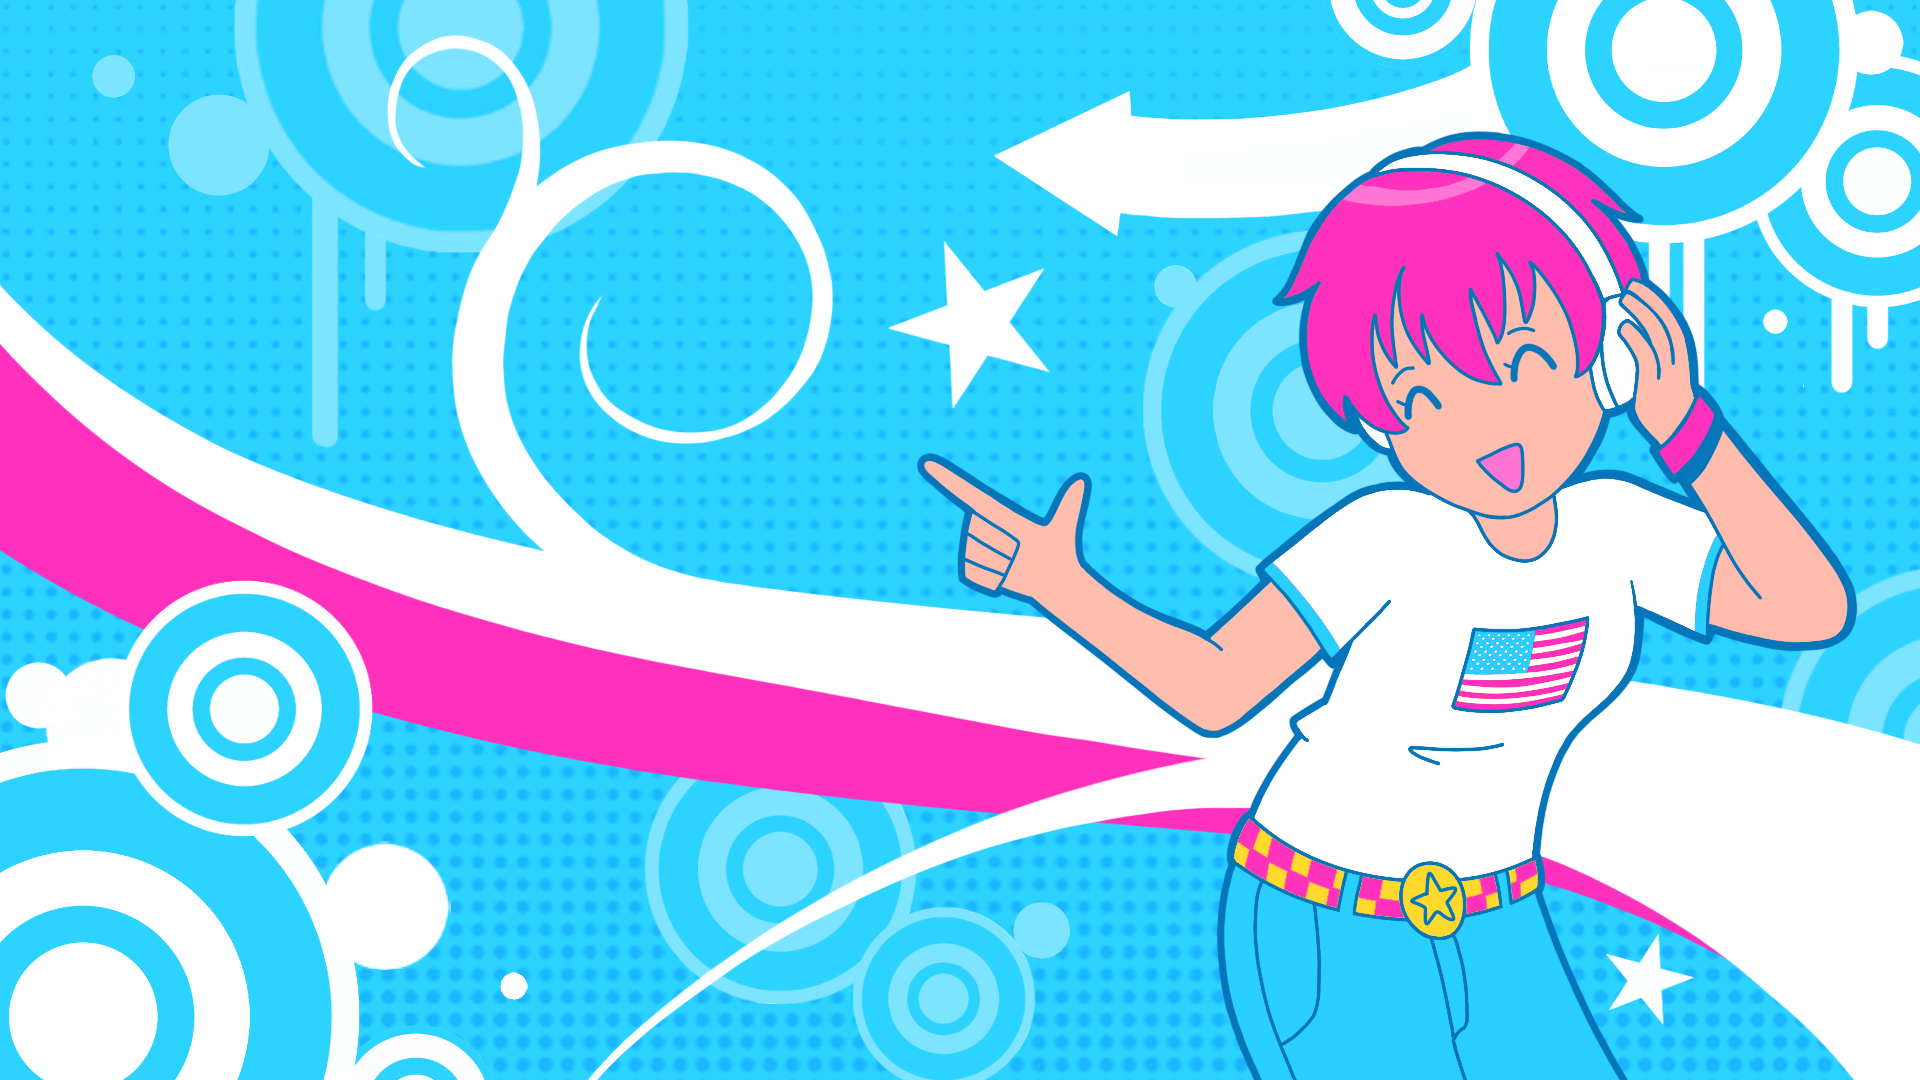
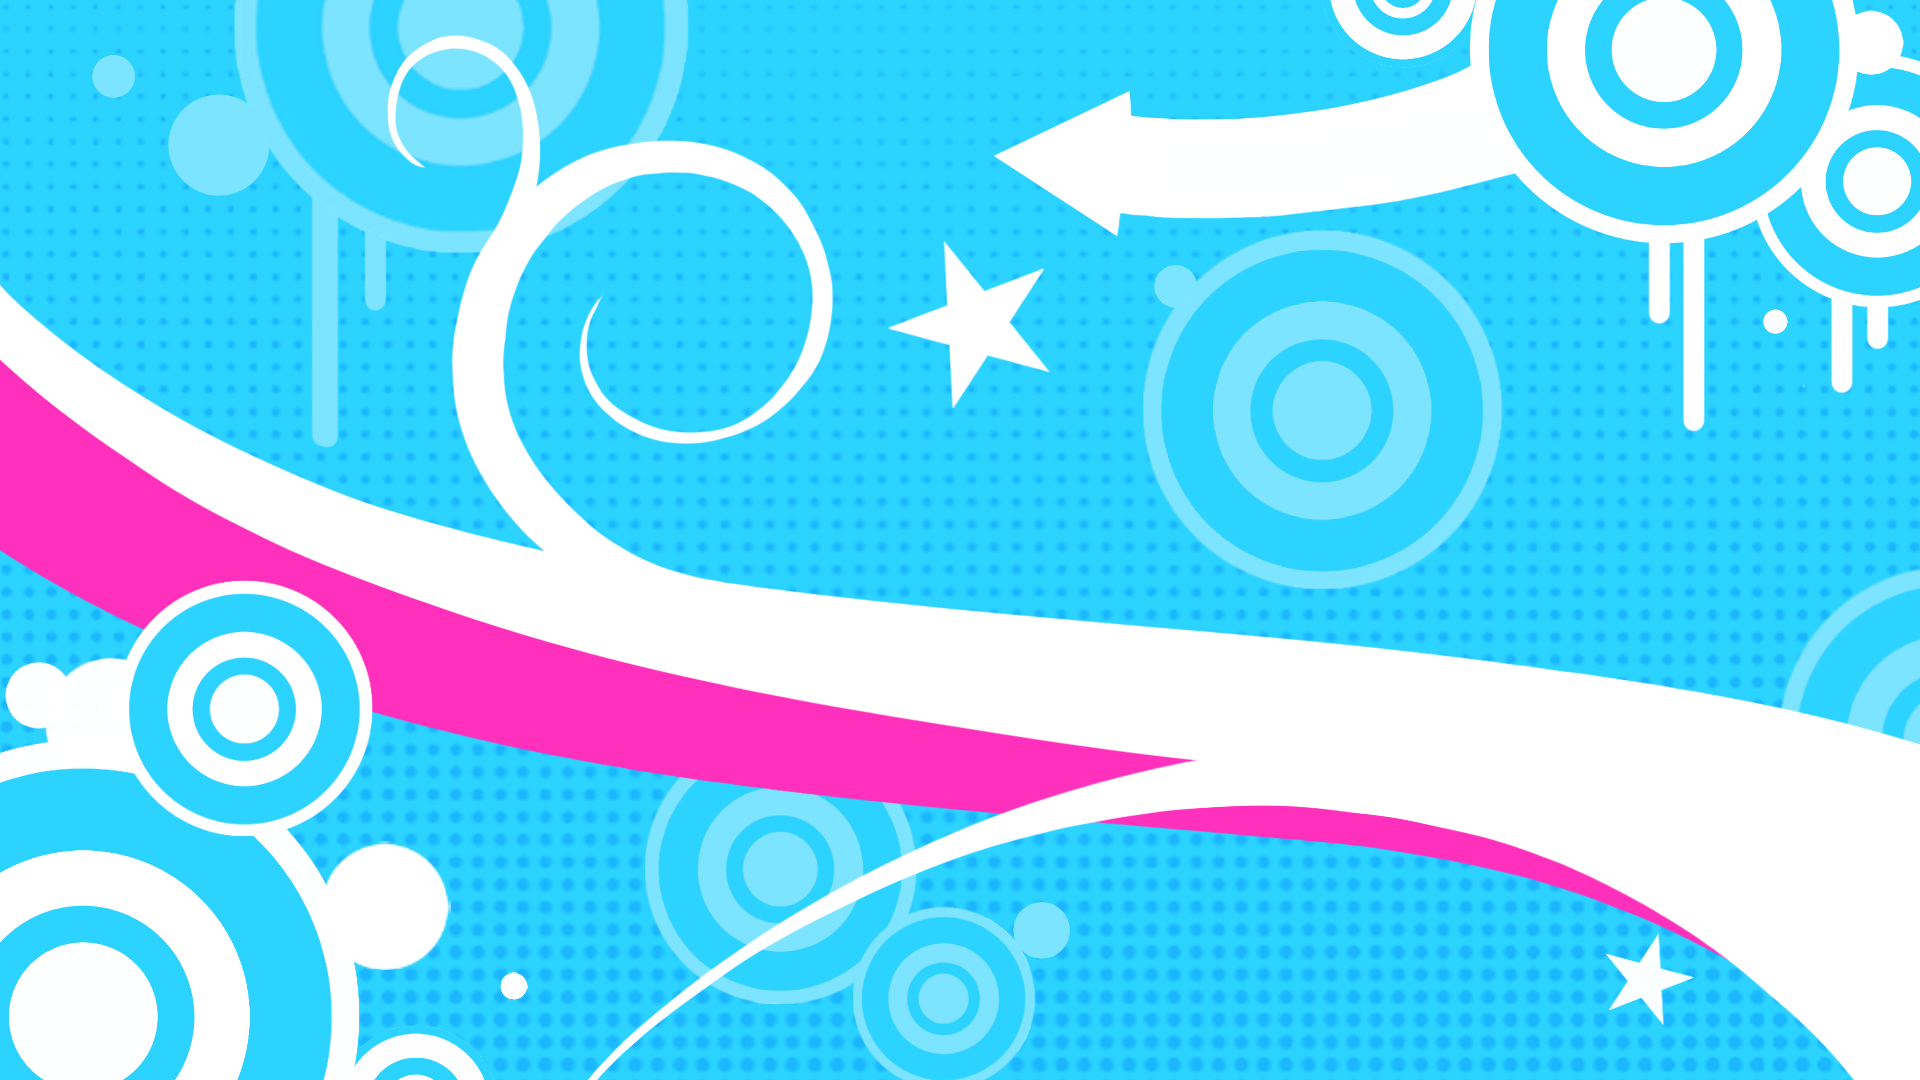
update

diff --git a/about.html b/about.html
@@ -51,7 +51,7 @@
         Led new trainee cohorts each term through a term-long training program, guiding groups in planning and developing web projects while building collaborative software development skills.
       </p>
       <p class="about-sec">
-        In my free time, I am a digital artist specialising in character illustrations, 2D animations, and video editing. I create artwork for personal projects and client commissions.
+        I am also a freelance digital artist specialising in character illustrations, 2D animations, and video editing. I create artwork for personal projects and client commissions.
       </p>
       <p class="about-sec">
         If you’d like to discuss a project or collaboration, feel free to 

diff --git a/gallery/movingimage.html b/gallery/movingimage.html
@@ -32,6 +32,10 @@
         <h2>Gallery</h2>
         <div class="project-images">
           <figure> 
+            <img src="../images/char_anim.gif" alt="Two characters hair blowing in wind"> 
+            <figcaption>Character Animation (2026)</figcaption> 
+          </figure> 
+          <figure> 
             <img src="../images/log in.gif" alt="Character signing in onto webpage"> 
             <figcaption>POV Computer Interaction Scene (2026)</figcaption> 
           </figure> 

diff --git a/gallery/illustration.html b/gallery/illustration.html
@@ -33,7 +33,7 @@
         <div class="project-images">
           <figure>
             <img src="../images/fm.png" alt="Frutiger metro styled wallpaper">
-            <figcaption>Frutiger Metro Character Illustration (2024)</figcaption> 
+            <figcaption>Frutiger Metro  Illustration (2026)</figcaption> 
           </figure> 
           <figure>
             <img src="../images/illust.png" alt="Digital illustration of a starry night garden">

diff --git a/gallery.html b/gallery.html
@@ -28,7 +28,7 @@
         <img src="images/px_char.png" alt="Pixel Art">
       </a>
       <a href="gallery/movingimage.html" class="gallery-card">
-        <h1 class="gallery-title">Moving Image</h1>
+        <h1 class="gallery-title">Moving Image + Animation</h1>
         <img src="images/log in.gif" alt="Moving Image">
       </a>
       <a href="gallery/posters.html" class="gallery-card">

diff --git a/projects/findyourfriends.html b/projects/findyourfriends.html
@@ -38,6 +38,7 @@
         <h2>Gallery</h2>
         <div class="project-images">
           <img src="../images/proj-fyf.png" alt="Find your friends figma page">
+          <img src="../images/proj-fyf-1.gif" alt="Find your friends">
         </div>
       </div>
     </div>
